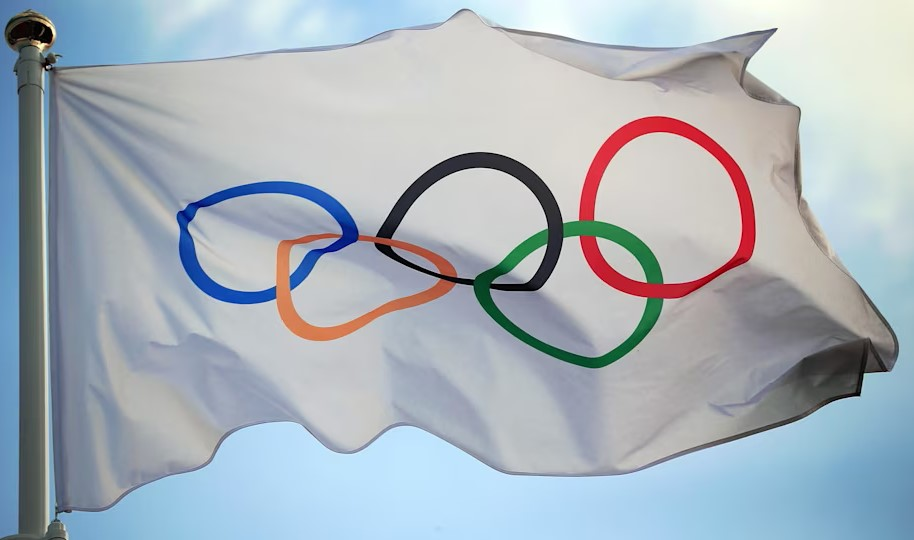
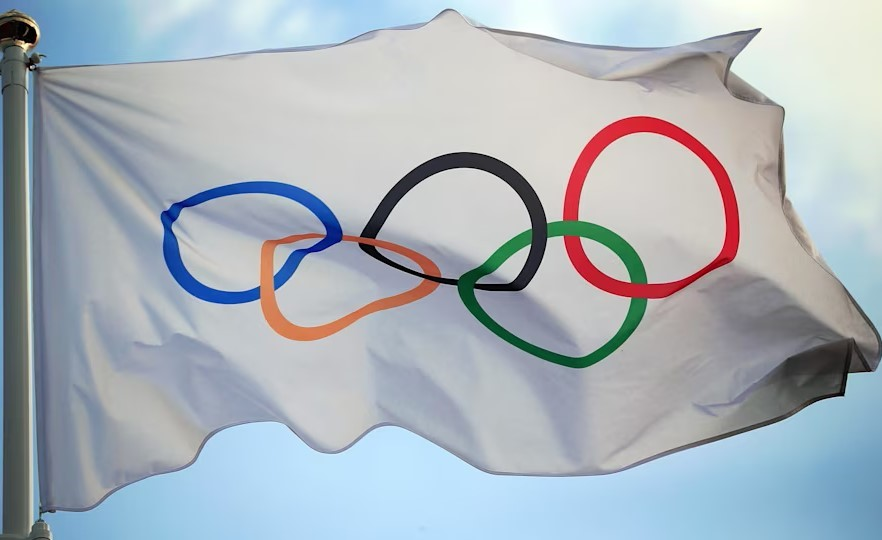
update projects image

diff --git a/data/index.ts b/data/index.ts
@@ -108,7 +108,7 @@ export const projects = [
     id: 5,
     title: "Medal Map",
     des: " Data analysis report of the Summer Olympics from 1896 to 2016.",
-    img: "/olympics.JPG",
+    img: "/olympics1.JPG",
     iconLists: [],
     link: "https://github.com/kushalgupta1203/Medal-Map",
   },
